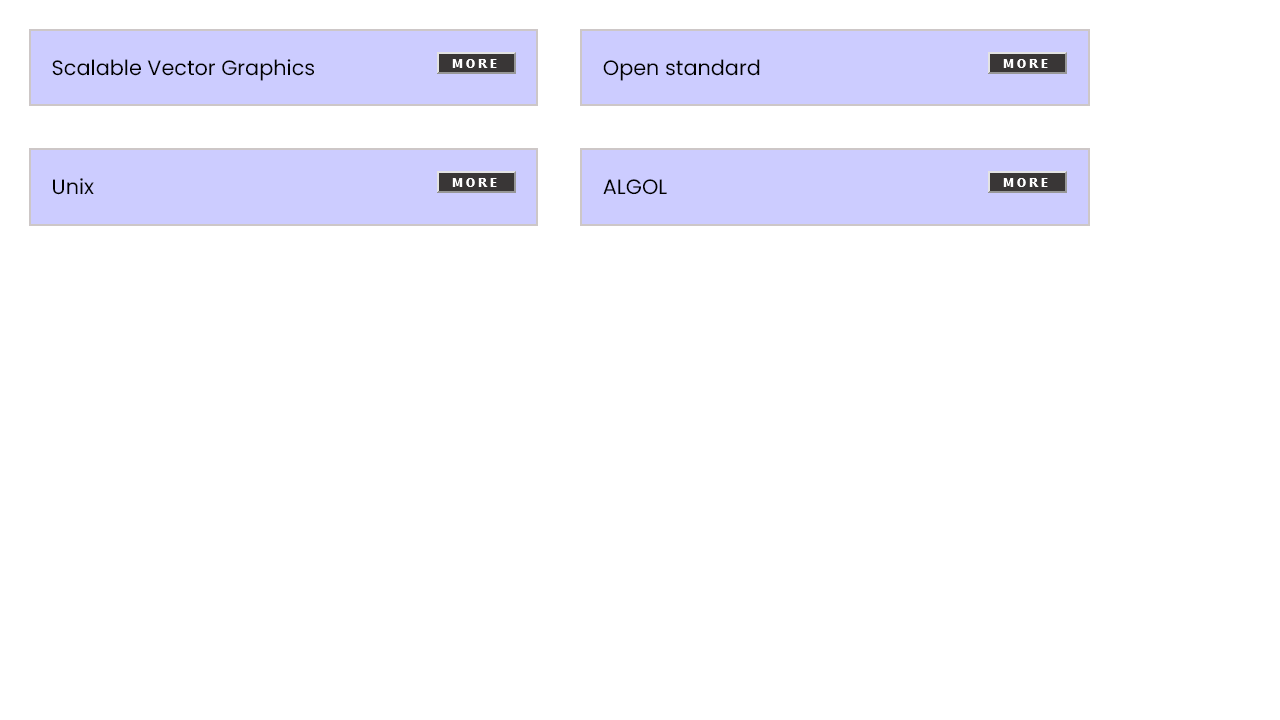
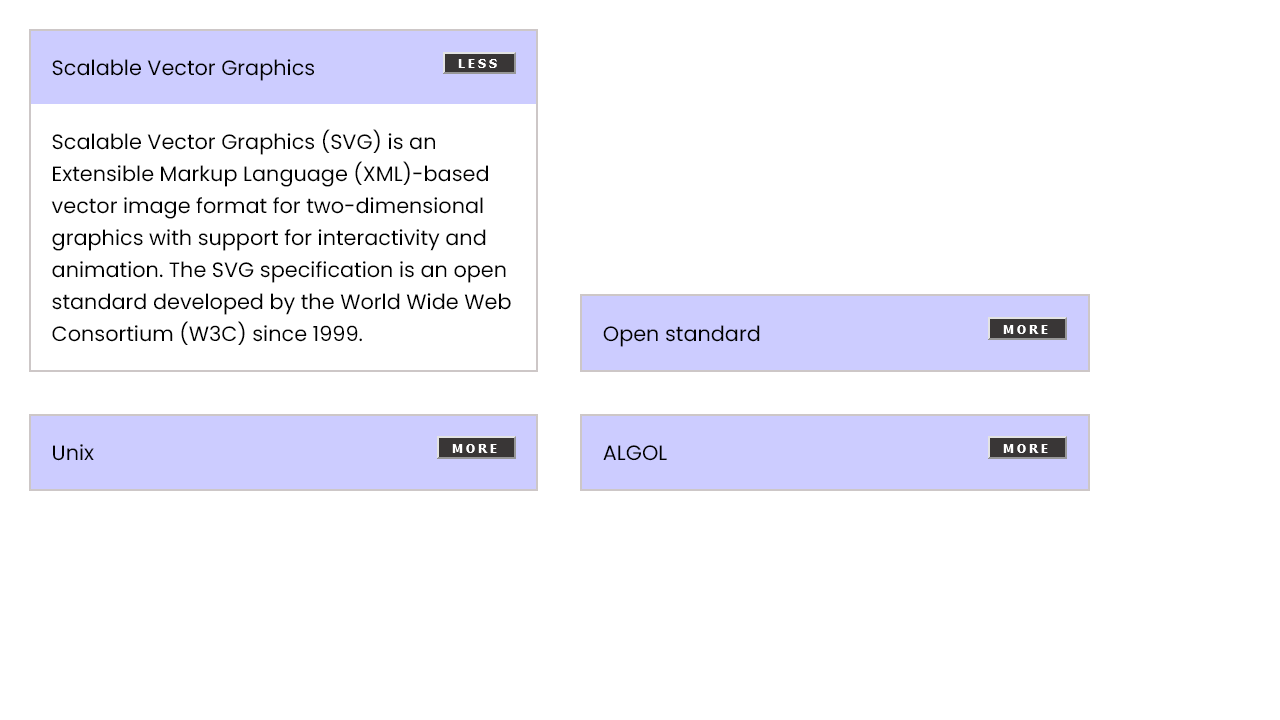
tests update

diff --git a/07.Architecture and Testing/demo/test.js b/07.Architecture and Testing/demo/test.js
@@ -1,5 +1,5 @@
-const { firefox } = require('playwright-firefox');
-const { expect } = require('chai')
+const { firefox } = require("playwright-firefox");
+const { expect } = require("chai");
 // (async () => {
 //     const browser = await firefox.launch();
 //     const page = await browser.newPage();
@@ -8,18 +8,57 @@ const { expect } = require('chai')
 //     await browser.close()
 // })();
 
-
 let browser, page; // Declare reusable variables
-describe('E2E tests', async function(done) {
-    this.timeout(5000);
+describe("E2E tests", async function (done) {
+  this.timeout(5000);
 
-  before(async () => { browser = await firefox.launch(); });
-  after(async () => { await browser.close(); });
-  beforeEach(async () => { page = await browser.newPage(); });
-  afterEach(async () => { await page.close(); }); 
+  before(async () => {
+    browser = await firefox.launch({ headless: false, slowMo: 500 });
+  });
+  after(async () => {
+    await browser.close();
+  });
+  beforeEach(async () => {
+    page = await browser.newPage();
+  });
+  afterEach(async () => {
+    await page.close();
+  });
 
-  it('works', async () => {
-   await page.goto('http://localhost:5500/Accordion');
-   await page.screenshot({ path: 'site.png' })
-  })
+  it("loads article titles", async () => {
+    await page.goto("http://localhost:5500/Accordion");
+    //    await page.click('text=More');
+    //    await page.screenshot({ path: 'site.png' })
+
+    await page.waitForSelector(".accordion");
+
+    const content = await page.textContent("#main");
+    expect(content).to.contain("Scalable Vector Graphics");
+    expect(content).to.contain("Open standard");
+    expect(content).to.contain("Unix");
+    expect(content).to.contain("ALGOL");
+  });
+
+  it("loads article titles", async () => {
+    await page.goto("http://localhost:5500/Accordion");
+
+    await page.click("text=More");
+    // await page.waitForSelector('.accordion')  
+    const visible = await page.isVisible(".accordion p");
+    expect(visible).to.be.true;
+  });
+
+  it("loads article titles", async () => {
+    await page.goto("http://localhost:5500/Accordion");
+
+    await page.click("text=More");
+    // await page.waitForSelector('.accordion')  
+    let visible = await page.isVisible(".accordion p");
+    expect(visible).to.be.true;
+
+    await page.click("text=Less");
+    visible = await page.isVisible(".accordion p");
+    expect(visible).to.be.false;
+
+  });
 });
